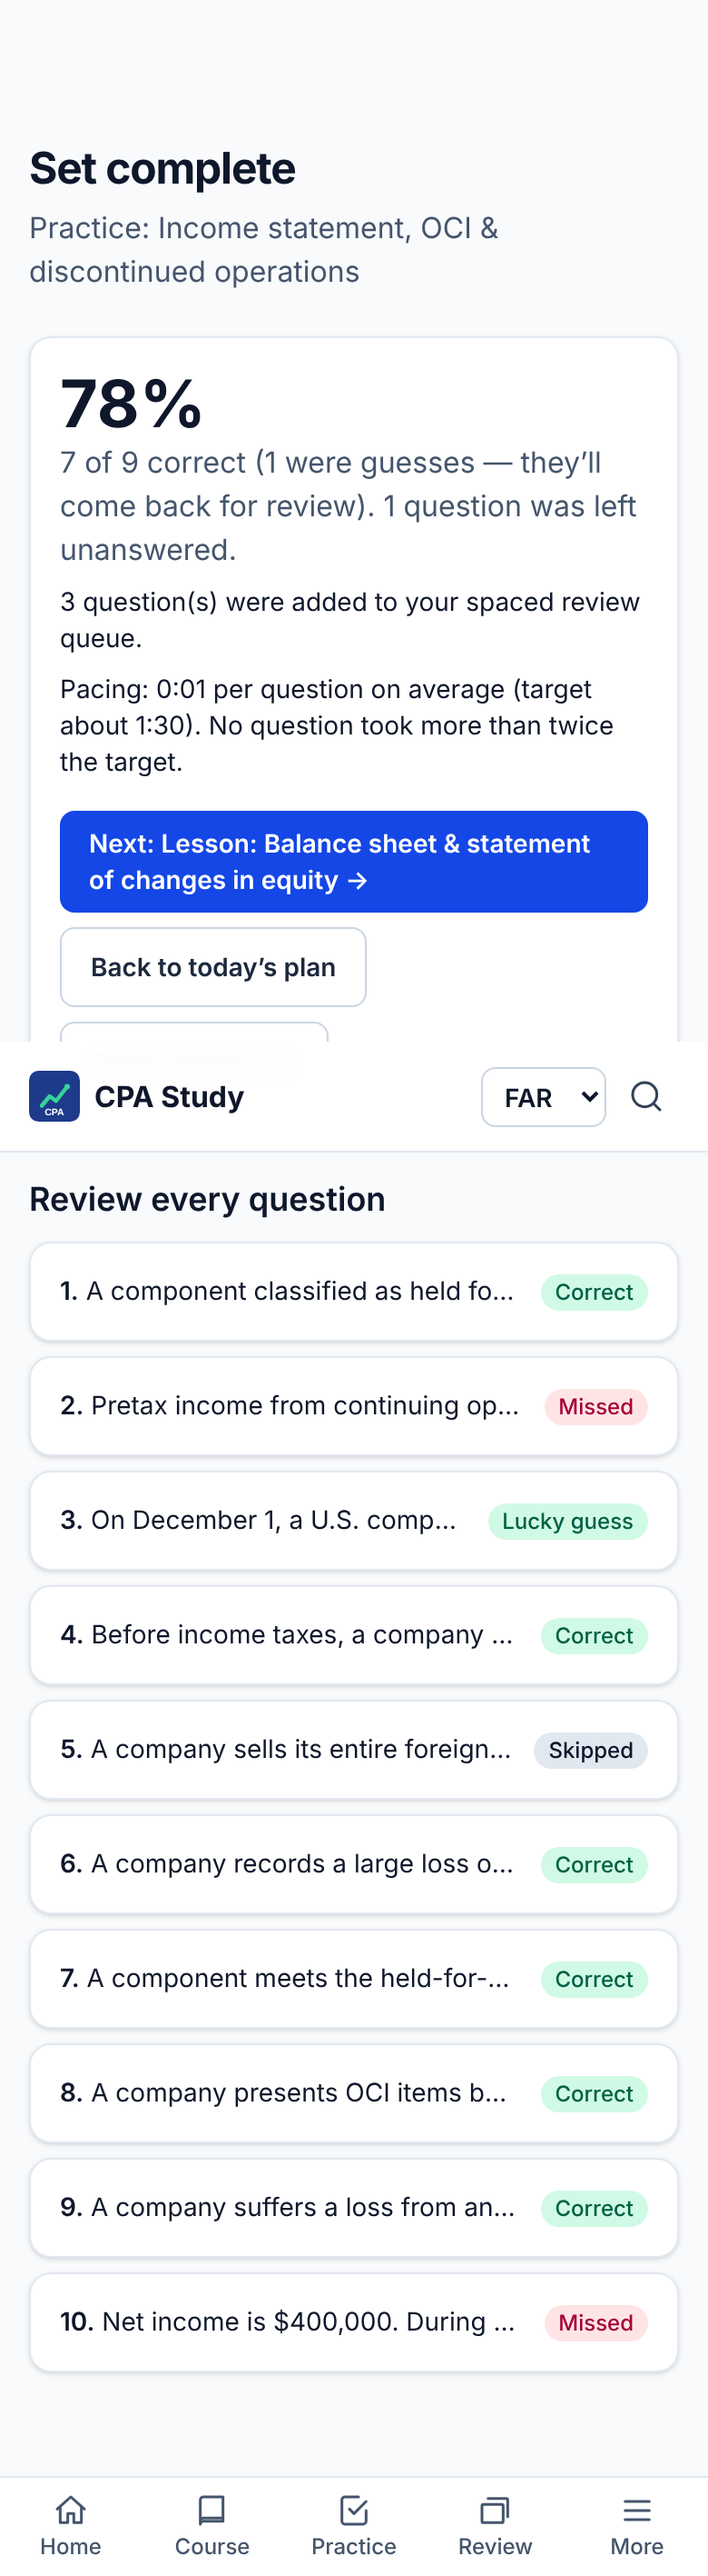
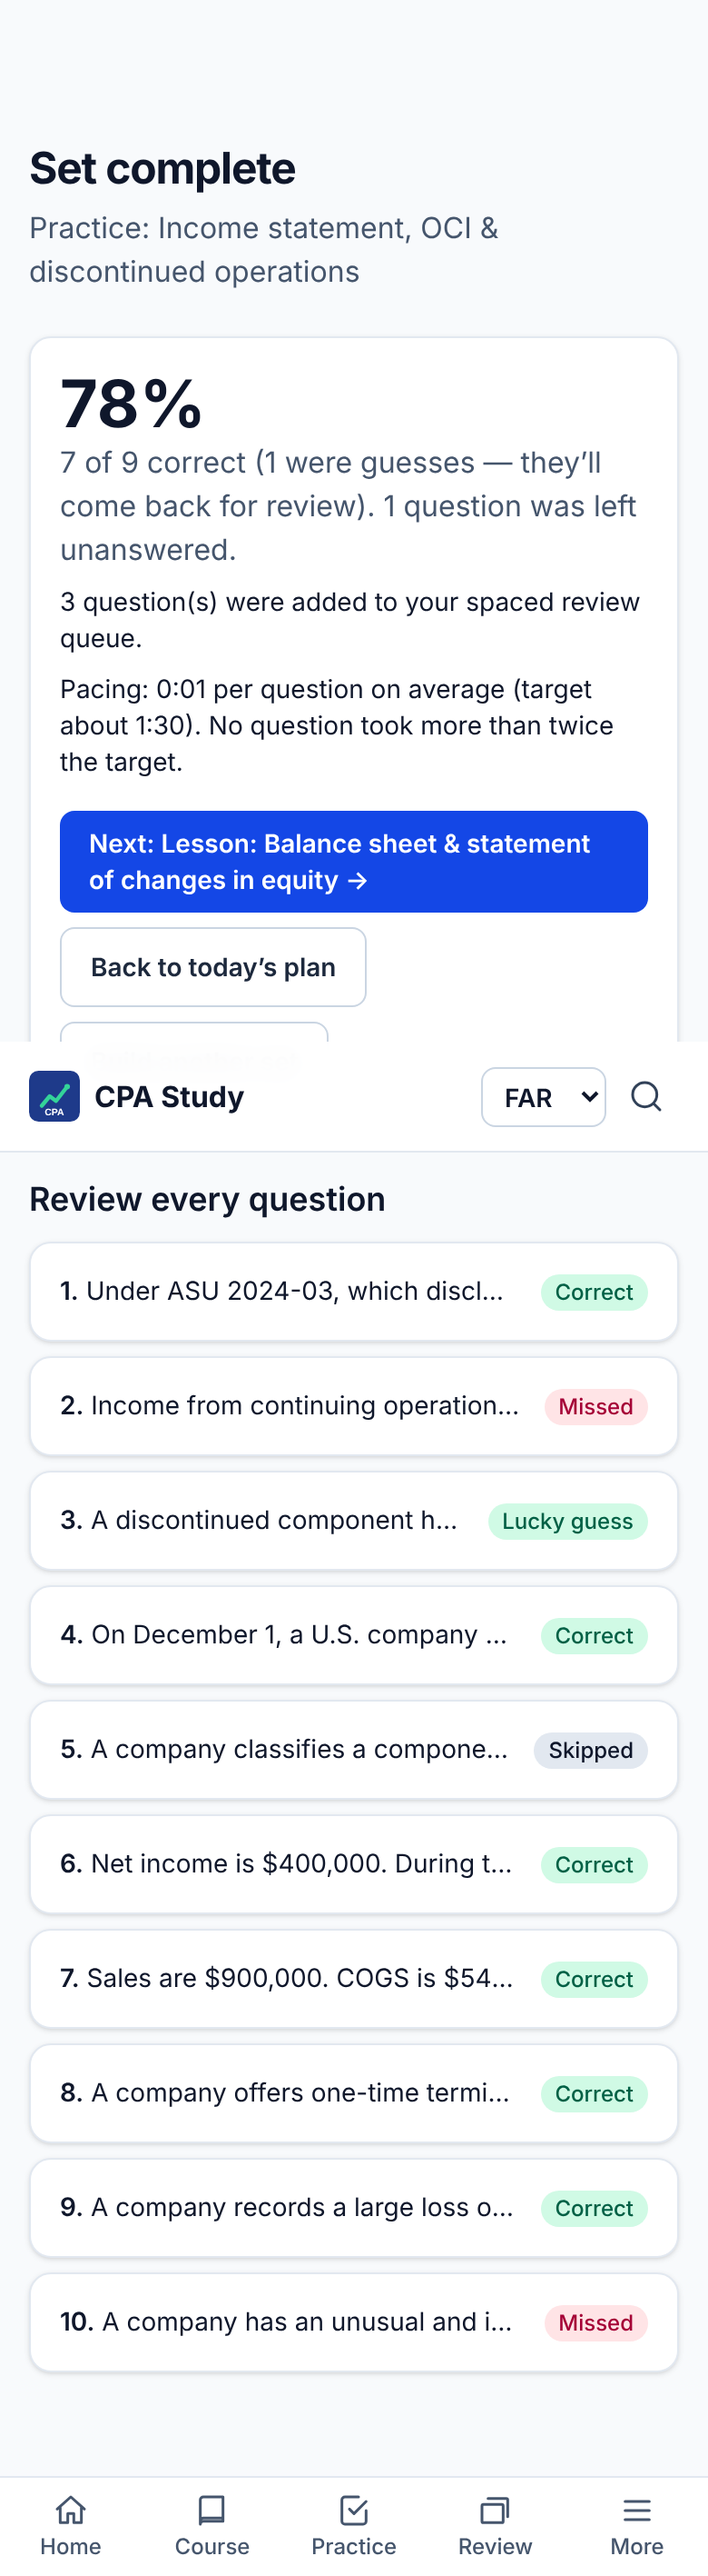
Review: merge M-far-debt-securities (18) with spot-check
Claude-Session: https://claude.ai/code/session_01GQpiBvrG8RP8MkV5wHC4Tg

diff --git a/review/batches/M-far-equity-investments/notes.md b/review/batches/M-far-equity-investments/notes.md
@@ -1,0 +1,83 @@
+# Notes — M-far-equity-investments (Equity securities & the equity method)
+
+Reviewer pass: blind answers saved first (`blind-answers.csv`), then keyed pass against `items.json` and both TBS files. 18 findings: 0 S1, 2 S2, 14 S3, 2 S4.
+
+## (a) Blind vs. key
+
+All 33 MCQ keys and all 20 TBS cells matched my blind answers. There were no disagreements to resolve.
+
+| id | my answer | key | resolution |
+|---|---|---|---|
+| (all 33 MCQs) | = key | = key | Agree. Keys confirmed against ASC 321/323. |
+| far-tbs-r3-equity-method (n, j, d) | 120,000 / 3,000 / 117,000 / 90,000 / 987,000; Dr Inv 117,000 / Cr Equity in earnings 117,000; EM, FV-NI, Consolidation, FV-NI | same | Agree. The journal part rejects the two-entry gross-plus-amortization alternative (finding 015). |
+| far-tbs-u7-equity (model, eq) | FV-NI, EM, EM, Consolidation, MA; 500,000 / 100,000 / 262,500 / 2,637,500 | same | Agree |
+
+Near-misses I noted in the blind pass and then confirmed in the keyed pass:
+- far-eq-14 (c): the item's own rationale admits this option is right if the investor holds other investments in the investee (finding 007).
+- far-eq-09 (a): true for a private company using the ASU 2014-02 alternative (finding 008).
+- far-eq-23: the key leaves out the observable-price-change adjustment (finding 012).
+
+## (b) Lesson design
+
+- **Big idea.** Clear and well motivated: influence determines the model, and the dividend-management rationale explains why the equity method exists. The example (0.1% pension fund holding vs. 35% automaker stake) is good.
+- **Pre-questions.** There is only one (far-eq-pre1). It primes FV-NI, which is fine, but nothing primes the equity method, which is the bulk of the lesson (finding 018).
+- **Body.** I recomputed every number:
+  - Mermaid classification chart: fine.
+  - T-account: 600,000 + 120,000 − 30,000 − 6,000 = 684,000. Correct.
+  - Worked example: excess 150,000 = 60,000 equipment + 90,000 goodwill; income 114,000; ending balance 684,000. Correct.
+  - Faded example: 100,000 / 6,000 / 94,000 / 870,000. Correct.
+  - The rules on presumptions, measurement alternative, OCI pickup, the zero floor and ASU 2016-07 prospective application are all correct and current.
+- **Takeaways.** Accurate, but the basis-difference takeaway (#4) omits that inventory is expensed when sold and land is not depreciated (finding 014).
+- **Inline checks.** Two (chk1 on the measurement alternative, chk2 on dividends). Both are correct. chk2 is a near-verbatim copy of far-eq-13.
+- **Minutes (20).** The lesson is about 1,065 words (669 in the body) plus one worked block, a faded block with 4 inputs, 2 checks and 1 pre-question. That comes to roughly 7 minutes of reading plus 10–12 minutes of interaction, so 20 minutes is realistic.
+- **`taxYear`.** Not applicable (FAR). Every standard cited is current for 2026:
+  - ASU 2016-01 (ASC 321)
+  - ASU 2016-07
+  - ASU 2020-01 (implicit)
+
+  Nothing post-2025 affects this module. ASU 2025-07's ASC 321 interaction is BAR and not testable until 2027. ASU 2023-02 (proportional amortization) has been testable since 2024 but is not mentioned; it is low-yield (my suggestion only, not filed as a finding).
+- **Lesson–item alignment.** The following items test material the lesson never teaches (finding 013):
+  - far-eq-09: equity-method goodwill is not separately tested; the whole investment is.
+  - far-eq-17: OTT impairment of an equity-method investment, with no reversal.
+  - far-eq-18: discontinuing the equity method when influence is lost.
+  - far-eq-28: gain on a partial sale.
+  - far-tbs-u7-equity row `inc`: an inventory basis difference expensed when the inventory is sold. The lesson says only "amortized/depreciated" (finding 014).
+- **Sequencing.** The prerequisites (debt securities, the preceding module in u7) are fine. This lesson relies on nothing taught later. In the other direction, `far-consolidations` (unit u3, taught much earlier) refers to "the parent's equity-method ... income" before the equity method is taught here. That belongs to the consolidations batch, but it is worth cross-checking.
+
+## (c) Practice design
+
+- **Counts.** 28 practice MCQs, 2 exam MCQs, 3 lesson MCQs, 7 flashcards and 2 TBS. That is ample volume, but redundancy is high: the 28 MCQs cover about 12 distinct facts (finding 010).
+- **Difficulty spread (practice).** 1: 4, 2: 10, 3: 14. Many of the difficulty-3 items are one-step (eq-21, -22, -26, -27, -28).
+- **Progression.** The order is not easy to hard. eq-01 (labeled difficulty 3, really difficulty 1) comes first; difficulty-1 items are scattered through positions 6–13; positions 20–28 are all labeled difficulty 3 but are among the simplest items in the set.
+- **Skill mix (practice + exam, n = 30), as labeled.** Remembering 4 (13%), application 12 (40%), analysis 14 (47%).
+- **Skill mix after the relabels I propose (findings 001 and 002).** Remembering about 11, application about 18, analysis about 1 (eq-10).
+  - The reconstructed Blueprint tasks for FAR-II.E.3 are R&U and Application only, so analysis-level skill for FAR should come from other areas and TBS.
+  - The current labels overstate this module's contribution to the FAR analysis band (35–45%).
+- **Topics still missing.** No MCQ or TBS covers:
+  - upstream intra-entity sales
+  - investee preferred stock
+  - measurement-alternative impairment
+  - a journal entry or computation for a change to or from the equity method (FAR-II.E.3.3)
+- **TBS.**
+  - **r3.** 20 minutes for 11 cells (5 numeric, 2 journal lines, 4 dropdowns) is realistic and the application label is right. The journal-entry ambiguity is finding 015 (S2) and the vague d2 row is finding 016.
+  - **u7.** 18 minutes for 9 cells is realistic and the application label is right. It has no issues of its own.
+  - **Scoring.** One point per cell. Integer keys with tolerance 0 (numeric rows) or the default ±1 (journal). A perfect response scores 100%.
+- **Miss routing.** Every item has `moduleId` far-equity-investments, so misses route back to this lesson.
+
+## (d) Items with no issues
+
+far-eq-pre1, far-eq-02, far-eq-03, far-eq-05, far-eq-10, far-eq-18, far-eq-fc1, far-eq-fc2, far-eq-fc3, far-eq-fc5, far-eq-fc6, far-eq-fc7, far-tbs-u7-equity.
+
+far-eq-18 is correct as an item. It is tied to the lesson gap (finding 013), but that finding is recorded against the lesson.
+
+## (e) Needs expert verification
+
+- **ASC paragraph numbers.** These were cited from memory and should be confirmed against the Codification: 323-10-35-23 to 35-26 (losses against other investments), 323-10-35-35/36 (sale and discontinuance), 350-20-35-59 (equity-method goodwill not separately tested), 825-10-25-4 (FVO election dates) and 321-10-35-1A (ASU 2020-01). The rules themselves are long-settled.
+- **ASU 2014-02 and equity-method goodwill.** The private-company alternative's extension to equity-method goodwill (behind finding 008) was confirmed via search summaries (Baker Tilly / Moss Adams descriptions of ASU 2014-02), not the ASU text.
+- **Severity of finding 015.** Whether the two-entry journal response should count as an "accepted alternative" (S1 under the calibration) or as prompt ambiguity (S2, as filed) is a judgement call for the TBS owner.
+
+## (f) Could not check
+
+- **The app.** Not run (usability is reviewed separately), so I did not confirm how practice order is actually presented. It may shuffle, which would make the progression point moot.
+- **Blueprint task text.** The FAR-II.E task wording is "reconstructed" in `review/reference/blueprint-tasks.csv`, so the skill-level arguments in findings 001 and 002 rest on that reconstruction plus the Blueprint's general skill definitions.
+- **Web searches.** I used 2 of the 3 allowed. The first (Deloitte roadmap) was inconclusive; the second confirmed the ASU 2014-02 scope.

diff --git a/review/batches/M-far-debt-securities/notes.md b/review/batches/M-far-debt-securities/notes.md
@@ -23,15 +23,15 @@ All numeric distractors were reproduced in Python. Mismatched rationales or trap
   - the AFS fair-value illustration (95,000 − 93,376 = 1,624 to OCI)
   - the faded premium example (18,682 / 1,318 / 206,262 / 3,262). The default 0.5 tolerance accepts unrounded entries.
   - the sale and credit-loss rules (ASC 326-20 / 326-30, including the intent-to-sell and MLTN write-down)
-- **Body: problem.** The faded example's $207,580 price is not a PV for any term (finding 015).
+- **Body: problem.** The faded example's $207,580 price is not a PV for any term (finding 016).
 - **Takeaways.** The six key takeaways are accurate.
 - **Inline checks.** chk1 tests the ASC 320-10-25-4 HTM disqualifier, which the body never states. chk2 tests the credit/non-credit split, which the body does teach.
 - **Minutes.** The body is about 650 words plus a worked block, a JE, a 4-step faded block and 2 checks. That is about 4–5 min reading, 4–5 min faded and 2–3 min checks, or 11–13 min in total. `minutes: 18` is generous but acceptable.
 - **Lesson–item alignment.** These items test content the lesson never teaches:
   - far-dsec-chk1: HTM disqualified by possible sales for interest-rate or liquidity reasons
-  - far-dsec-17, far-dsec-25: transfers between categories (ASC 320-10-35-10). Finding 012.
-  - far-dsec-14: credit loss measured as AC − PV of expected cash flows. Finding 013.
-  - far-dsec-08 and far-tbs-u7-debt-securities (JE): the valuation-account adjustment is the change from the existing balance to the required balance. Finding 014.
+  - far-dsec-17, far-dsec-25: transfers between categories (ASC 320-10-35-10). Finding 013.
+  - far-dsec-14: credit loss measured as AC − PV of expected cash flows. Finding 014.
+  - far-dsec-08 and far-tbs-u7-debt-securities (JE): the valuation-account adjustment is the change from the existing balance to the required balance. Finding 015.
   - far-dsec-06, far-dsec-20: the fair value option appears as a distractor only. The lesson never mentions the FVO; this is minor.
   - far-dsec-15: the sale of a trading security is not shown, but it is derivable from FV-NI. This is acceptable.
 - **Sequencing.** This module (u7) comes before Bonds payable (u8). The lesson assumes PV pricing but gives prices instead of deriving them, so it does not depend on later content. dsec-10's explanation uses PV factors (2.5771, 0.7938) that are taught later in far-bonds. That is acceptable because the item doesn't require them. Equity securities are deferred to the next module (far-equity-investments) and flagged correctly.
@@ -53,12 +53,12 @@ All numeric distractors were reproduced in Python. Mismatched rationales or trap
 - **Redundancy.** Each of these facts is tested 3–5 times: trading → NI, AFS → OCI, HTM at amortized cost, and AFS sale gain = proceeds − AC (finding 009). The exam item x2-12 reuses practice item dsec-13's bond (finding 010).
 - **TBS.**
   - u7 (application, 18 min, 10 cells + JE): realistic and correct.
-  - r3 (analysis, 20 min, 8 cells): correct, but missing acquisition dates (finding 011). The 20 minutes is slightly long for 8 cells.
+  - r3 (analysis, 20 min, 8 cells): correct, but missing acquisition dates (finding 012). The 20 minutes is slightly long for 8 cells.
   - Scoring (src/lib/tbsScoring.ts): one point per cell, default tolerance 1. A review row in error scores only when it is flagged and the amount corrected, and correct rows must be left unflagged. A perfect response scores 100%. Unrounded entries (for example, 385,535.85 or 5,469.15) fall within tolerance.
 
 ## (d) Items with no issues found
 
-far-dsec-pre1, far-dsec-chk1 (item itself; its lesson support is covered by finding 012), far-dsec-01, far-dsec-06, far-dsec-07, far-dsec-08, far-dsec-10, far-dsec-fc2, far-dsec-fc3, far-dsec-fc4, far-dsec-fc5, far-tbs-u7-debt-securities.
+far-dsec-pre1, far-dsec-chk1 (item itself; its lesson support is covered by finding 013), far-dsec-01, far-dsec-06, far-dsec-07, far-dsec-08, far-dsec-10, far-dsec-fc2, far-dsec-fc3, far-dsec-fc4, far-dsec-fc5, far-tbs-u7-debt-securities.
 
 ## (e) Needs expert verification
 

diff --git a/review/batches/M-far-debt-securities/spotcheck.md b/review/batches/M-far-debt-securities/spotcheck.md
@@ -1,0 +1,11 @@
+# Spot-check — M-far-debt-securities (orchestrator)
+
+Sample: 3 of 12 no-finding items (25%).
+
+| Item | Independent check | Result |
+|---|---|---|
+| far-dsec-08 | Required FVA 158,000 − 150,000 = 8,000 Dr; existing 3,000 Dr → Dr FVA 5,000 / Cr OCI 5,000 = key (b). | Agree |
+| far-dsec-10 | PV at 8% of 10,000 × 3 + 100,000 = 105,154.19; Year-1 amortization 10,000 − 8,412.34 = 1,587.66 ≈ 1,588 = key (a). SL (b) 5,154 ÷ 3 = 1,718. | Agree |
+| far-dsec-01 | A bond bought at a discount means the market rate exceeded the coupon; income exceeds cash as the discount amortizes. Key (d). | Agree |
+
+Outcome: no misses. Batch accepted.
